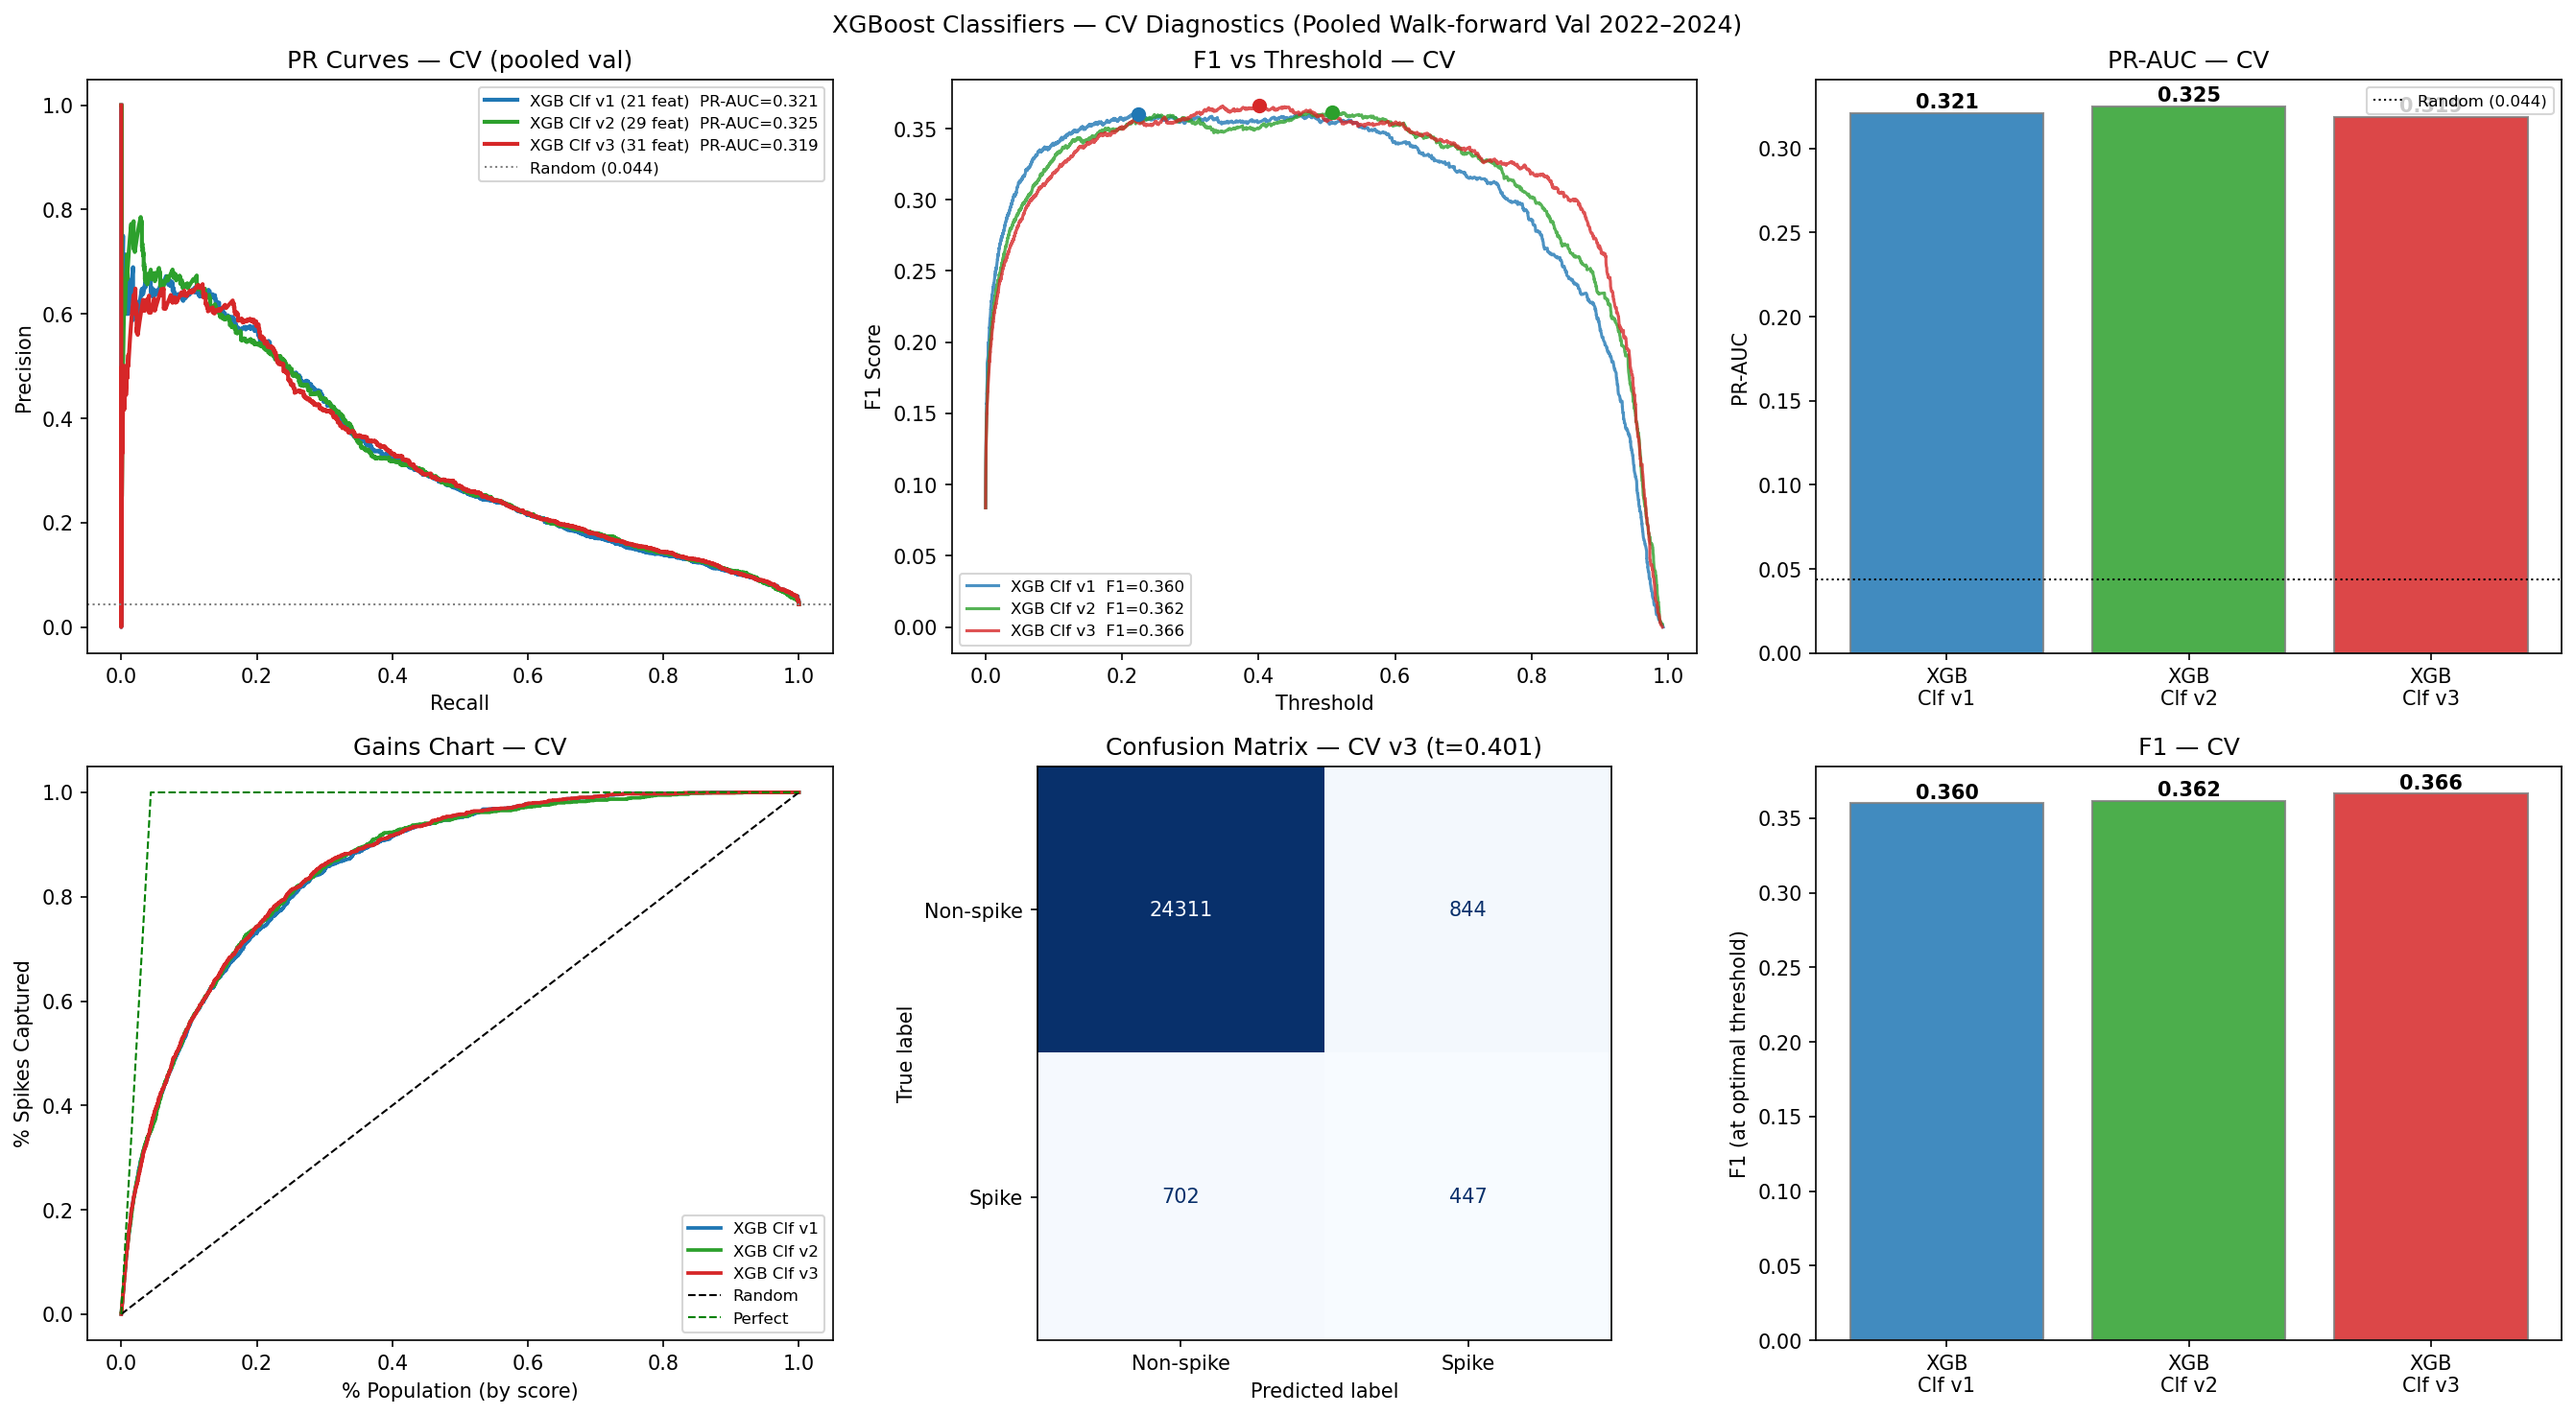
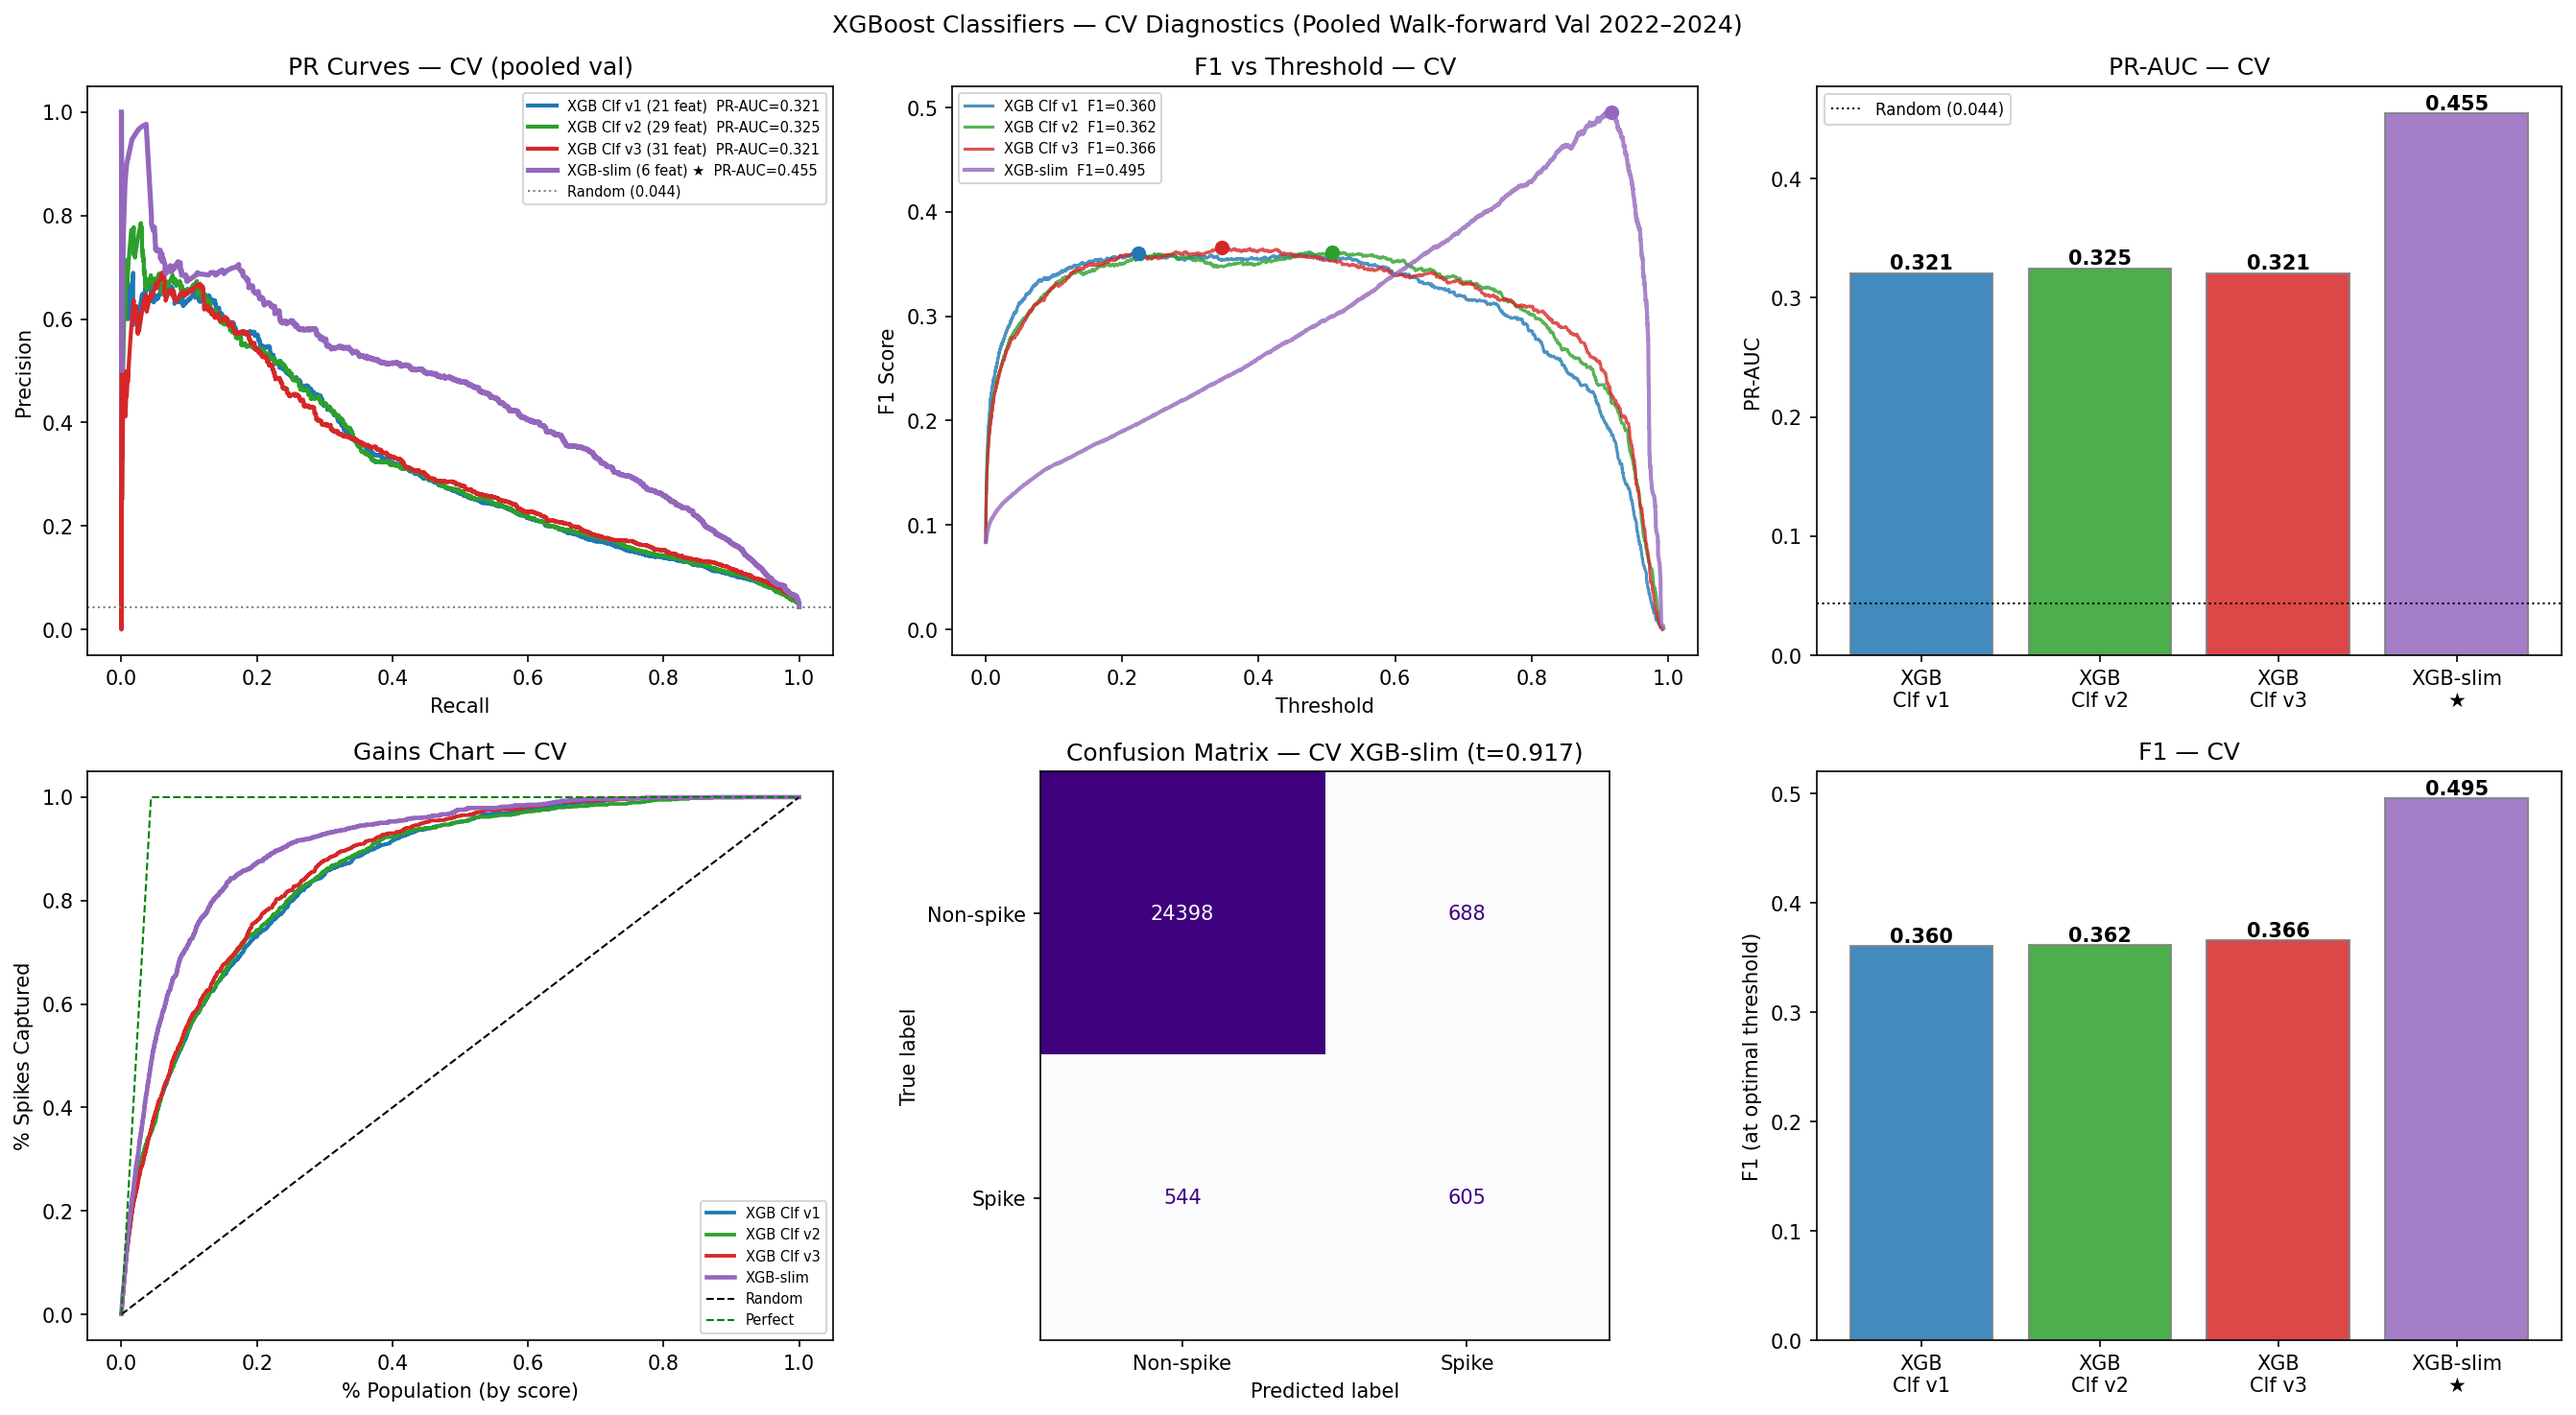
Update classifier CV/test plots with XGB-slim; remove stale figures
- Add XGB-slim to all CV diagnostic plots (PR curves, F1 bars, gains, confusion matrix)
- Fix label mismatch between v1-v3 and slim CV pooled predictions
- Re-execute cells 3, 5, 7, 9 with fresh outputs
- Remove superseded pr_curve_comparison.png and classification_diagnostics.png

diff --git a/scripts/run_slim_cv.py b/scripts/run_slim_cv.py
@@ -1,11 +1,11 @@
 #!/usr/bin/env python3
-"""Execute classifier cells 1 (setup) and 5 (XGB-slim CV) and save outputs."""
+"""Execute classifier cells: setup, v1-v3 CV, slim CV, CV plots, test plots."""
 import nbformat
 from nbclient import NotebookClient
 from jupyter_client.manager import KernelManager
 
 NB_PATH = 'model_classifier.ipynb'
-CELLS_TO_RUN = [1, 5]  # clf-setup, XGB-slim with CV
+CELLS_TO_RUN = [1, 2, 3, 5, 7, 9]  # setup, error analysis, v1-v3 CV, slim CV, CV plots, test plots
 
 nb = nbformat.read(NB_PATH, as_version=4)
 
@@ -21,7 +21,7 @@ client.kc = kc
 for i in CELLS_TO_RUN:
     cell = nb.cells[i]
     first_line = cell.source.split('\n')[0][:75]
-    print(f"\nCell {i}: {first_line}", flush=True)
+    print(f"\n{'='*60}\nCell {i}: {first_line}", flush=True)
 
     try:
         client.execute_cell(cell, i)
@@ -31,7 +31,7 @@ for i in CELLS_TO_RUN:
 
     for out in cell.get('outputs', []):
         if out.output_type == 'stream':
-            print(out.text, end='', flush=True)
+            print(out.text[:500], end='', flush=True)
         elif out.output_type == 'error':
             print(f"  ERROR: {out.ename}: {out.evalue}", flush=True)
         elif out.output_type == 'display_data':
